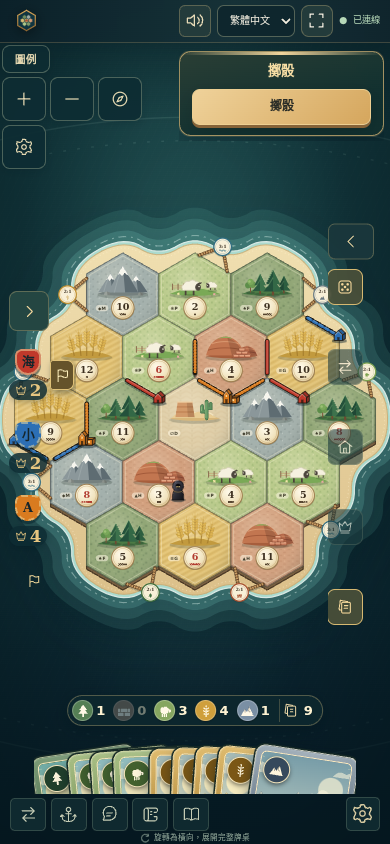
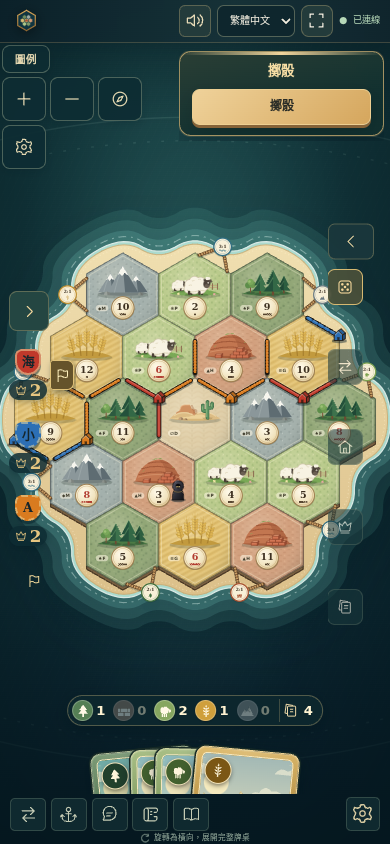
🎨 style(board): redraw the SVG sheep, brick and desert emblems
Sheep get four legs, curly wool and a drooping-eared head; the hills carry
a dimensional brick stack in front of a strata-lined clay hill; the desert
becomes shaded dunes with a distant rock and a rounded cactus.

diff --git a/packages/web/src/components/SvgBoardArt.tsx b/packages/web/src/components/SvgBoardArt.tsx
@@ -155,25 +155,29 @@ function Rock({ x, y, s = 1, fill = '#9aa19b' }: { x: number; y: number; s?: num
   </g>;
 }
 
-function Mound({ x, y, w, h, colors, grass = true }: { x: number; y: number; w: number; h: number; colors: readonly [string, string, string]; grass?: boolean }) {
-  const half = w / 2;
-  return <g transform={`translate(${x} ${y})`}>
-    <path d={`M${-half} 0C${-half * 0.7} ${-h * 1.2} ${half * 0.7} ${-h * 1.2} ${half} 0Z`} fill={colors[0]} />
-    <path d={`M${-half * 0.9} ${-h * 0.25}C${-half * 0.4} ${-h * 0.4} ${half * 0.4} ${-h * 0.4} ${half * 0.9} ${-h * 0.25}`} fill="none" stroke={colors[1]} strokeWidth="2.4" />
-    <path d={`M${-half * 0.72} ${-h * 0.55}C${-half * 0.3} ${-h * 0.7} ${half * 0.3} ${-h * 0.7} ${half * 0.72} ${-h * 0.55}`} fill="none" stroke={colors[2]} strokeWidth="2" />
-    <path d={`M${half * 0.1} ${-h * 0.88}C${half * 0.6} ${-h * 0.7} ${half * 0.86} ${-h * 0.3} ${half} 0H${half * 0.35}Z`} fill="#000" opacity=".14" />
-    {grass && <path d={`M${-half * 0.42} ${-h * 0.78}C${-half * 0.15} ${-h * 0.95} ${half * 0.2} ${-h * 0.95} ${half * 0.4} ${-h * 0.8}C${half * 0.1} ${-h * 0.86} ${-half * 0.15} ${-h * 0.86} ${-half * 0.42} ${-h * 0.78}Z`} fill="#93a95e" />}
-  </g>;
-}
 
 function Sheep({ x, y, s = 1, flip = false }: { x: number; y: number; s?: number; flip?: boolean }) {
+  // 捲毛身體由重疊圓構成：先畫略大的描邊圓，再畫毛色圓，最後點出毛捲。
+  const wool: readonly [number, number, number][] = [
+    [-13, -19, 8], [-4, -24, 9], [7, -23, 8.5], [14, -16, 7.5], [-15, -11, 7.5], [-4, -11, 9], [8, -11, 8.5],
+  ];
+  const leg = (lx: number, top: number, fill: string) => <rect x={lx - 2.2} y={top} width="4.4" height={-top + 0.5} rx="2" fill={fill} />;
   return <g transform={`translate(${x} ${y}) scale(${flip ? -s : s} ${s})`}>
-    <ellipse cy="2" rx="11" ry="2.8" fill="#2e4a24" opacity=".25" />
-    <path d="M-6 0v-5M5 0v-5" stroke="#4b4239" strokeWidth="2.2" strokeLinecap="round" />
-    <path d="M-10-7q-3-5 2-7 1-5 7-4 4-4 9 0 5 0 4 5 2 5-3 7H-8q-4 0-2-1Z" fill="#f6f1df" stroke="#d5cfb6" strokeWidth="1" />
-    <ellipse cx="11" cy="-10" rx="3.8" ry="4.6" fill="#4d463e" />
-    <path d="M10-14l5-2" stroke="#4d463e" strokeWidth="2" strokeLinecap="round" />
-    <circle cx="12.4" cy="-11" r=".9" fill="#f8f2df" />
+    <ellipse cy="1" rx="22" ry="3.6" fill="#24401c" opacity=".28" />
+    {leg(-10, -10, '#3a312a')}{leg(10, -10, '#3a312a')}
+    {wool.map(([cx, cy, r]) => <circle key={`o${cx}${cy}`} cx={cx} cy={cy} r={r + 1.4} fill="#cfc6aa" />)}
+    {wool.map(([cx, cy, r]) => <circle key={`w${cx}${cy}`} cx={cx} cy={cy} r={r} fill="#f8f3e3" />)}
+    <path d="M-17-8q8 5 16 2t16-1" fill="none" stroke="#e2d9bf" strokeWidth="2.2" strokeLinecap="round" />
+    <path d="M-9-24q2-3 5-1M3-27q2-3 5 0M-14-16q2-3 5-1" fill="none" stroke="#e2d9bf" strokeWidth="1.4" strokeLinecap="round" />
+    {leg(-14, -7, '#4b4037')}{leg(5, -7, '#4b4037')}
+    <g transform="translate(19 -21) rotate(18)">
+      <ellipse cx="-3" cy="-6" rx="5.2" ry="2.4" transform="rotate(-35 -3 -6)" fill="#3a312a" />
+      <ellipse rx="6.4" ry="8.6" fill="#4d433a" />
+      <ellipse cx="1.5" cy="5" rx="4" ry="3.4" fill="#6b5f53" />
+      <circle cx="2.2" cy="-1.5" r="1.5" fill="#fbf6e6" /><circle cx="2.6" cy="-1.3" r=".7" fill="#1d1915" />
+      <ellipse cx="3" cy="-6.5" rx="5" ry="2.2" transform="rotate(10 3 -6.5)" fill="#5c5046" />
+      <circle cx="-2.5" cy="-8.4" r="3" fill="#f8f3e3" /><circle cx="0.5" cy="-9.4" r="2.6" fill="#f8f3e3" />
+    </g>
   </g>;
 }
 
@@ -188,31 +192,32 @@ function Ground({ fill, light, w = 118 }: { fill: string; light: string; w?: num
 }
 
 function Cactus({ x, y, s = 1 }: { x: number; y: number; s?: number }) {
-  return <g transform={`translate(${x} ${y}) scale(${s})`} strokeLinecap="round" fill="none">
-    <path d="M0 0v-30M0-12h-8v-10M0-18h7v-8" stroke="#3f6a46" strokeWidth="6.5" />
-    <path d="M0 0v-30M0-12h-8v-10M0-18h7v-8" stroke="#5f9160" strokeWidth="4.5" />
-    <path d="M-1.4-1v-27M-9.2-13v-8" stroke="#a6cf8f" strokeWidth="1.3" opacity=".8" />
+  const outline = 'M0 0V-31M0-13h-5q-4 0-4-4v-7M0-19h5q4 0 4-4v-5';
+  return <g transform={`translate(${x} ${y}) scale(${s})`} strokeLinecap="round" strokeLinejoin="round" fill="none">
+    <ellipse cy="1" rx="9" ry="2.4" fill="#7a5f33" opacity=".28" stroke="none" />
+    <path d={outline} stroke="#3c6644" strokeWidth="7" />
+    <path d={outline} stroke="#5e9161" strokeWidth="5" />
+    <path d="M-1.5-2v-27M-10-16v-6M7.5-22v-4" stroke="#a9d192" strokeWidth="1.3" opacity=".85" />
   </g>;
 }
 
-function Butte({ x, y, w, h }: { x: number; y: number; w: number; h: number }) {
-  const half = w / 2;
-  return <g transform={`translate(${x} ${y})`}>
-    <path d={`M${-half} 0L${-half * 0.76} ${-h}H${half * 0.76}L${half} 0Z`} fill="#d29a6a" />
-    <path d={`M${-half * 0.92} ${-h * 0.34}H${half * 0.92}M${-half * 0.84} ${-h * 0.68}H${half * 0.84}`} stroke="#b97a4c" strokeWidth="2.2" />
-    <path d={`M${half * 0.18} ${-h}H${half * 0.76}L${half} 0H${half * 0.3}Z`} fill="#4a2a14" opacity=".18" />
-    <path d={`M${-half * 0.76} ${-h}H${half * 0.76}`} stroke="#f0cd9f" strokeWidth="2.6" strokeLinecap="round" />
+
+/** 一塊帶頂面與側面的立體磚，原點在正面左下角。 */
+function Brick({ x, y }: { x: number; y: number }) {
+  return <g transform={`translate(${x} ${y})`} strokeLinejoin="round" stroke="#7d3a24" strokeWidth=".9">
+    <path d="M0-7l4-3.5h14L14-7Z" fill="#eda27c" />
+    <path d="M14-7l4-3.5V-3.5L14 0Z" fill="#9c4d33" />
+    <rect x="0" y="-7" width="14" height="7" fill="#c96b4a" />
+    <path d="M1.6-4.6h10.8" stroke="#e08a66" strokeWidth="1" />
   </g>;
 }
 
 function BrickStack({ x, y, s = 1 }: { x: number; y: number; s?: number }) {
-  const brick = (bx: number, by: number, key: string) => <g key={key}>
-    <rect x={bx} y={by} width="12" height="6.5" rx=".8" fill="#d18665" stroke="#86452e" strokeWidth="1" />
-    <rect x={bx + 1} y={by + 1} width="10" height="1.8" fill="#f0b996" opacity=".9" />
-  </g>;
+  // 由下而上、由左而右疊放，後畫的磚自然蓋住前一塊的側面。
+  const rows: readonly (readonly number[])[] = [[-21, -7, 7], [-14, 0], [-7]];
   return <g transform={`translate(${x} ${y}) scale(${s})`}>
-    <ellipse cy="1.5" rx="21" ry="4" fill="#4a2414" opacity=".25" />
-    {[0, 1, 2].flatMap((row) => Array.from({ length: 3 - row }, (_, col) => brick(-18 + row * 6 + col * 12, -6.5 - row * 6.5, `${row}-${col}`)))}
+    <ellipse cx="2" cy="1" rx="26" ry="4.2" fill="#4a2414" opacity=".28" />
+    {rows.map((row, level) => row.map((bx) => <Brick key={`${level}:${bx}`} x={bx} y={-level * 7} />))}
   </g>;
 }
 
@@ -267,9 +272,15 @@ export function TerrainEmblem({ terrain, x, y }: { terrain: string; x: number; y
     case 'hills':
       art = <>
         <Ground fill="#a75e3c" light="#d99a70" />
-        <Mound x={-14} y={0} w={92} h={50} colors={['#c27650', '#a35a3a', '#de9f76']} />
-        <Mound x={38} y={1} w={50} h={26} colors={['#b5694a', '#96503a', '#d08a64']} grass={false} />
-        <BrickStack x={26} y={5} s={1.15} />
+        {/* 背後的紅土丘：岩層條紋、背光面與零星草叢。 */}
+        <path d="M-56 1C-50-30-22-50 0-50S44-28 52 1Z" fill="#c27650" />
+        <path d="M0-50C22-50 44-28 52 1H16C20-20 14-38 0-50Z" fill="#8f4a2f" opacity=".35" />
+        <path d="M-48-14Q0-28 49-12M-41-28Q-4-40 38-27M-26-41Q0-48 22-41" fill="none" stroke="#a35a3a" strokeWidth="2.6" strokeLinecap="round" />
+        <path d="M-50-8Q0-21 50-6" fill="none" stroke="#e1a47b" strokeWidth="1.6" strokeLinecap="round" opacity=".8" />
+        <path d="M-16-49q6-6 14-3 6-4 12 1-12-2-26 2Z" fill="#8fa35a" />
+        <path d="M-42-20q3-5 8-3-4 0-8 3ZM30-30q3-4 7-1-4-1-7 1Z" fill="#8fa35a" />
+        <BrickStack x={20} y={6} s={1.05} />
+        <Brick x={-38} y={6} />
       </>;
       break;
     case 'fields':
@@ -282,18 +293,24 @@ export function TerrainEmblem({ terrain, x, y }: { terrain: string; x: number; y
     case 'pasture':
       art = <>
         <Ground fill="#7aa956" light="#b4d283" />
-        <Fence from={-54} to={-14} y={-8} />
-        <Sheep x={42} y={-7} s={1} flip />
-        <Sheep x={-12} y={4} s={1.75} />
+        <Fence from={18} to={54} y={-9} />
+        <Sheep x={-38} y={-5} s={.78} />
+        <Sheep x={4} y={4} s={1.3} />
         <circle cx={-40} cy={2} r={2.6} fill="#f3e6a8" /><circle cx={46} cy={3} r={2.4} fill="#eaaaa4" />
       </>;
       break;
     case 'desert':
       art = <>
         <Ground fill="#d8b77a" light="#f3e0b2" />
-        <path d="M-56 0q22-24 50-8 20-18 58 8Z" fill="#e8cd95" />
-        <path d="M-44-4q18-12 34-4m22-2q16-10 32 4" stroke="#f8e8c2" strokeWidth="2.2" fill="none" strokeLinecap="round" />
-        <Butte x={-24} y={-2} w={46} h={36} /><Cactus x={28} y={1} s={1.35} />
+        {/* 遠方不規則的砂岩丘，前方兩道沙丘有受光面與背風陰影。 */}
+        <path d="M-48 0l3-13 8-4 4-11 7-3h14l4 9 7 2 3 20Z" fill="#cf9161" />
+        <path d="M-10-31h4l4 9 7 2 3 20H-6l2-14Z" fill="#9c5c37" opacity=".35" />
+        <path d="M-37-17l4-11 7-3h14M-44-9h44" fill="none" stroke="#e7b585" strokeWidth="1.8" strokeLinecap="round" />
+        <path d="M-60 2C-44-17-20-20-2-6 10-17 34-20 60 2Z" fill="#ecd29a" />
+        <path d="M-2-6C10-17 34-20 60 2H24C30-6 14-12-2-6ZM-60 2C-44-17-20-20-2-6-14-2-34-2-60 2Z" fill="#c9a26a" opacity=".45" />
+        <path d="M-50-5C-38-14-20-15-6-7M6-10C18-16 34-15 50-4" fill="none" stroke="#fff1cc" strokeWidth="1.3" strokeLinecap="round" opacity=".75" />
+        <Cactus x={30} y={0} s={1.25} />
+        <Rock x={-34} y={3} s={.9} fill="#c4a27a" /><Rock x={-22} y={4} s={.55} fill="#b38f66" />
       </>;
       break;
     default:
